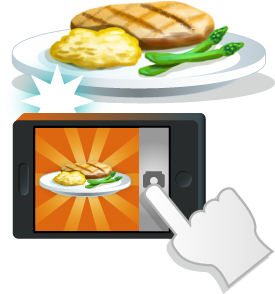
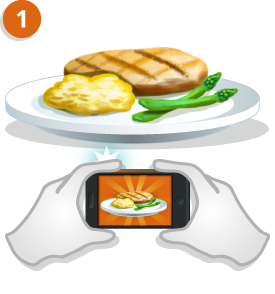
new images for homepage + change weekly email date format

diff --git a/app/assets/stylesheets/homepage/homepage.css b/app/assets/stylesheets/homepage/homepage.css
@@ -9,11 +9,6 @@ h2 {
 	margin-bottom: 25px;
 }
 
-
-h2.step {
-	color: #e96000;
-}
-
 #container {
 	margin: 0 auto;
 	width: 960px;
@@ -119,7 +114,7 @@ iframe {
 	padding:20px;
 	border-radius: 2px 2px 2px 2px;
 	width: 270px;
-	height: 500px;
+	height: 435px;
 	float: left;
 	margin: 5px;
 	box-shadow: 0 1px 4px
@@ -135,10 +130,9 @@ iframe {
 	font-size: 15px;
 }
 
-.column3of3 img {
-	margin-top: 14px;
+.column1of3 img, .column2of3 img, .column3of3 img {
+    margin-top: 10px;
 }
-
 
 /* RIBBON ----------------------------------------------------*/
 

diff --git a/app/mailers/user_mailer.rb b/app/mailers/user_mailer.rb
@@ -71,9 +71,10 @@ class UserMailer < ActionMailer::Base
         :uploaded_at => startDate..endDate
       )
       .order("uploaded_at ASC")
-      .group_by{|v| v.uploaded_at.strftime("%a %d %b %Y")}
+      .group_by{|v| v.uploaded_at.strftime("%a %b %d, %Y")}
 
       @user = user
+      logger.debug @groups
       if @groups.empty?
         html = render :partial => "email/empty_recap", :layout => "email"
       else

diff --git a/app/controllers/admin/mailer_controller.rb b/app/controllers/admin/mailer_controller.rb
@@ -37,7 +37,7 @@ class Admin::MailerController < ApplicationController
       :uploaded_at => startDate..endDate
       )
     .order("uploaded_at ASC")
-    .group_by{|v| v.uploaded_at.strftime("%a %d %b %Y")}
+    .group_by{|v| v.uploaded_at.strftime("%a %b %d, %Y")}
 
     render :partial => "email/weekly_recap", :layout => "email"
   end
